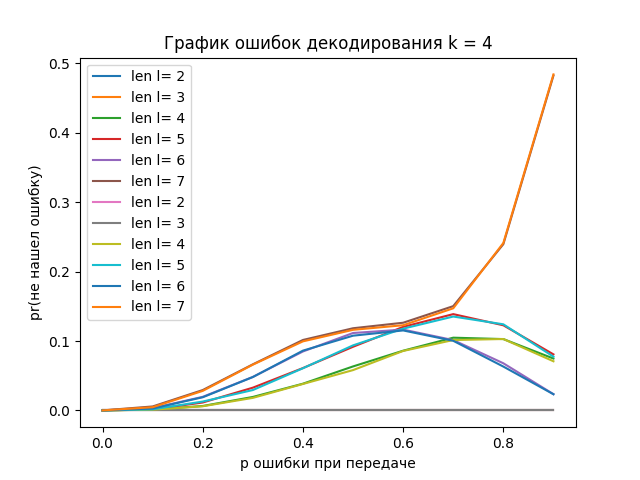
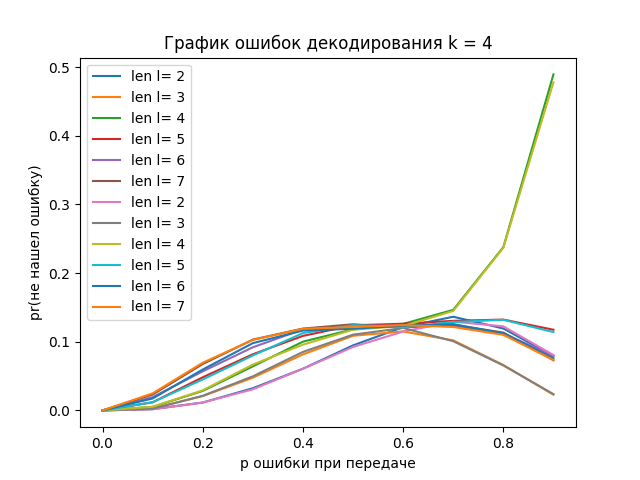
исправлены ошибки

diff --git a/main.py b/main.py
@@ -65,10 +65,10 @@ class Coder:
         return a
 
     def add_errors(self, a: list) -> list:
-        for i in range(len(self.vector_e)):
-            if self.vector_e[i] == 1:
-                a[i] = (a[i] + 1) % 2
-        return a
+        _a = a.copy()
+        for i in range(len(_a)):
+            _a[i] = (_a[i] + self.vector_e[i]) % 2
+        return _a
 
     def decode(self, b: list) -> bool:
         _, s = poly_div_mod(b, self.polynomial)
@@ -212,8 +212,10 @@ def get_pr_error_in_decode(epsilon, p_error, len_l, coder_, res=None):
             l += str(random.randint(0, 1))
         a = coder_.code(l)
 
-        vector_e = [0] * 7
-        for j in range(len_l):
+        vector_e = [0] * len(a)
+        if i == 0 and j == 0:
+            print(f'{len(a)=}')
+        for j in range(len(a)):
             if random.random() < p_error:
                 vector_e[j] = 1
         coder_.vector_e = vector_e
@@ -235,6 +237,30 @@ def test_poly():
     print(poly_div_mod(p, [1, 1]))
 
 
+def find_error():
+    coder = Coder('11101', 4, 3, 7)
+    print(coder)
+    m = '11111'
+    temp_vector_e = list(range(9))
+    all_combinations = list(itertools.combinations(temp_vector_e, 2))
+    all_vectors_e = []
+    for i in all_combinations:
+        temp_vector_e = [0] * 9
+        for j in i:
+            temp_vector_e[j] = 1
+        all_vectors_e.append(temp_vector_e.copy())
+
+    a = coder.code(m)
+    print(a)
+    for vector_e in all_vectors_e:
+        coder.vector_e = vector_e
+        b = coder.add_errors(a)
+        if not coder.decode(b) and vector_e.__contains__(1):
+            print(f'a: {a}')
+            print(f'vector_e: {vector_e}')
+            print(f'b: {b}')
+
+
 def no_threading():
     probabilities = []
     coder = Coder()
@@ -243,12 +269,12 @@ def no_threading():
         probabilities.append(i / 10)
 
     for j in range(2, 7 + 1):
-        #print('len l = ' + str(j))
+        # print('len l = ' + str(j))
         res = []
         for p in probabilities:
-            #print('p = ' + str(p))
+            # print('p = ' + str(p))
             errors_n, N_examples = get_pr_error_in_decode(0.01, p, j, coder)
-            #print(f'{errors_n=}, {N_examples=}, {errors_n / N_examples=:.2f}')
+            # print(f'{errors_n=}, {N_examples=}, {errors_n / N_examples=:.2f}')
             res.append(errors_n / N_examples)
         plt.plot(probabilities, res, label=f'len l= {j}')
     plt.legend()
@@ -257,7 +283,7 @@ def no_threading():
     plt.title('График ошибок декодирования k = 4')
     plt.grid()
     plt.savefig('graph.png')
-    #plt.show()
+    # plt.show()
 
 
 def use_threading():
@@ -268,9 +294,10 @@ def use_threading():
         probabilities.append(i / 10)
 
     for k in range(2, 7 + 1):
-        #print('len l = ' + str(k))
+        # print('len l = ' + str(k))
         result = [[0] * 10 for i in range(10)]
-        t = [threading.Thread(target=get_pr_error_in_decode, args=(0.01, p, k, Coder(), result[int(p*10)])) for p in probabilities]
+        t = [threading.Thread(target=get_pr_error_in_decode, args=(0.01, p, k, Coder(), result[int(p * 10)])) for p in
+             probabilities]
         for i in t:
             i.start()
         for i in t:
@@ -283,13 +310,16 @@ def use_threading():
     plt.title('График ошибок декодирования k = 4')
     plt.grid()
     plt.savefig('graph.png')
-    #plt.show()
+    # plt.show()
 
 
 if __name__ == '__main__':
+    '''
     start_time = time.time()
     no_threading()
     print(f'Время выполнения no threading: {time.time() - start_time}')
     start_time = time.time()
     use_threading()
     print(f'Время выполнения use threading: {time.time() - start_time}')
+    '''
+    #find_error()
